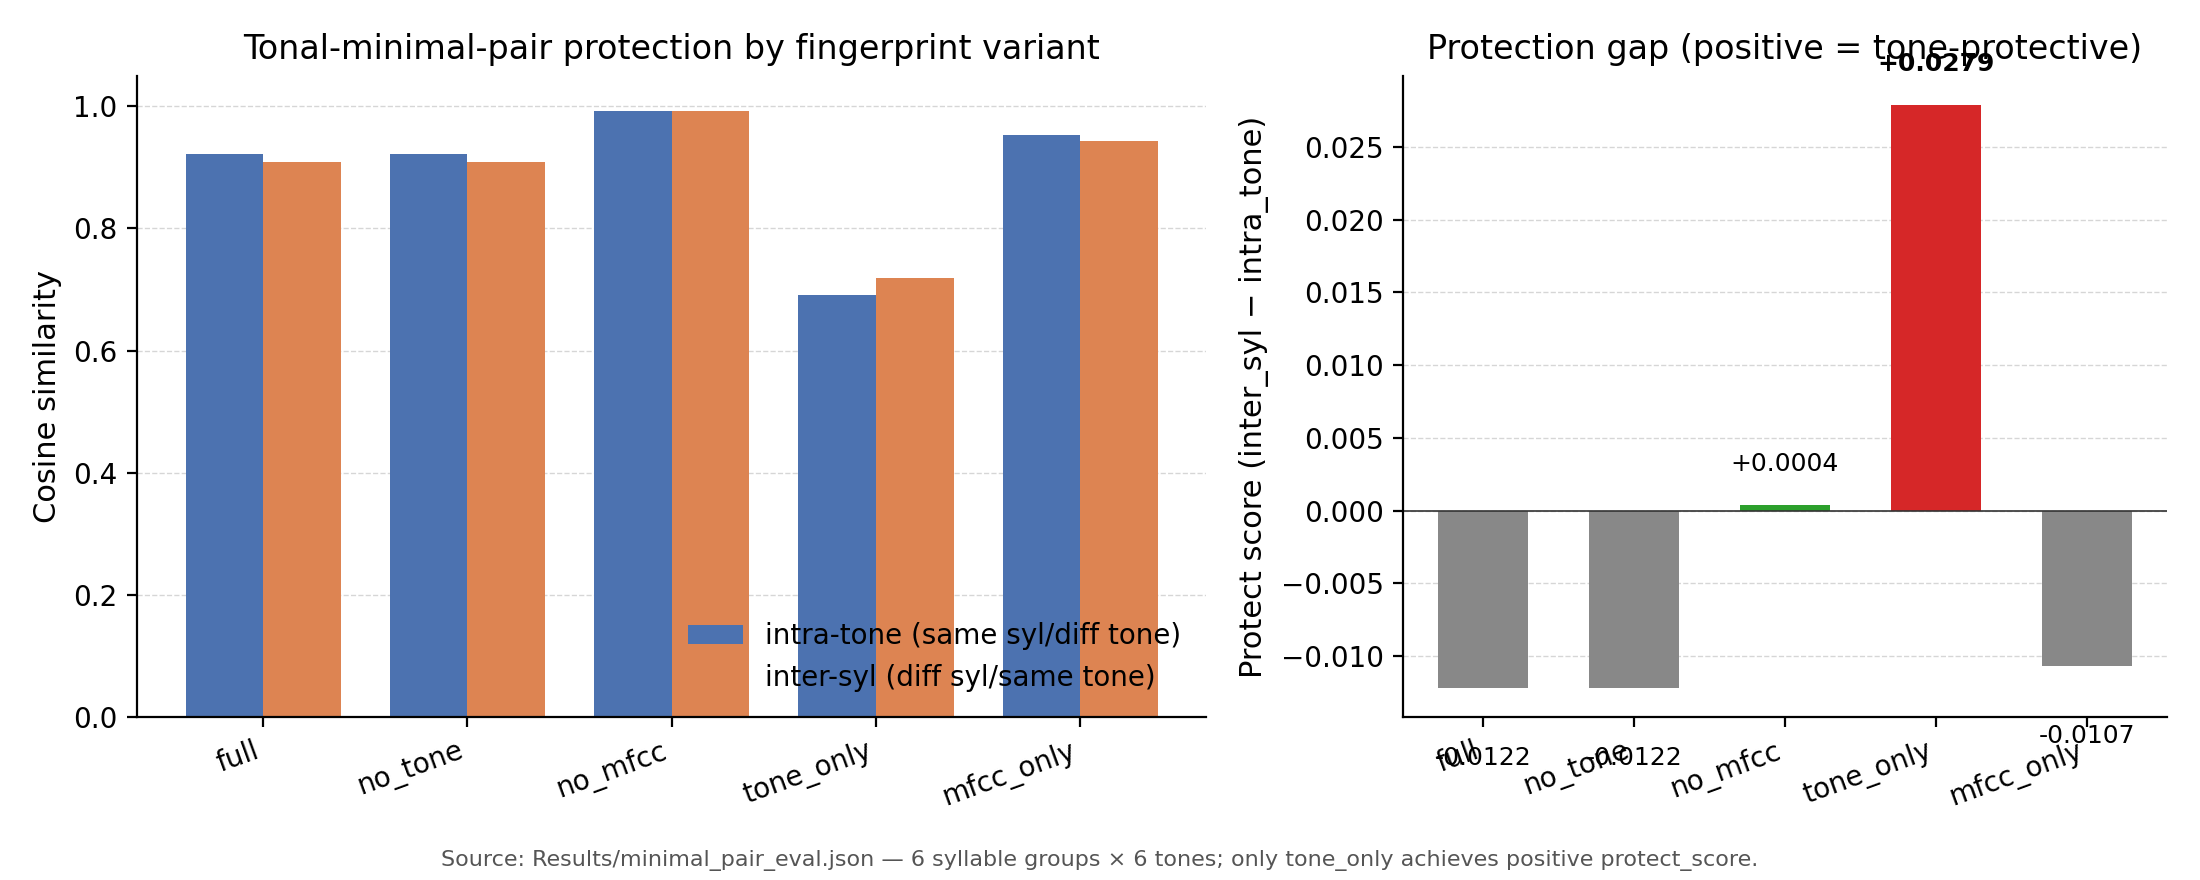
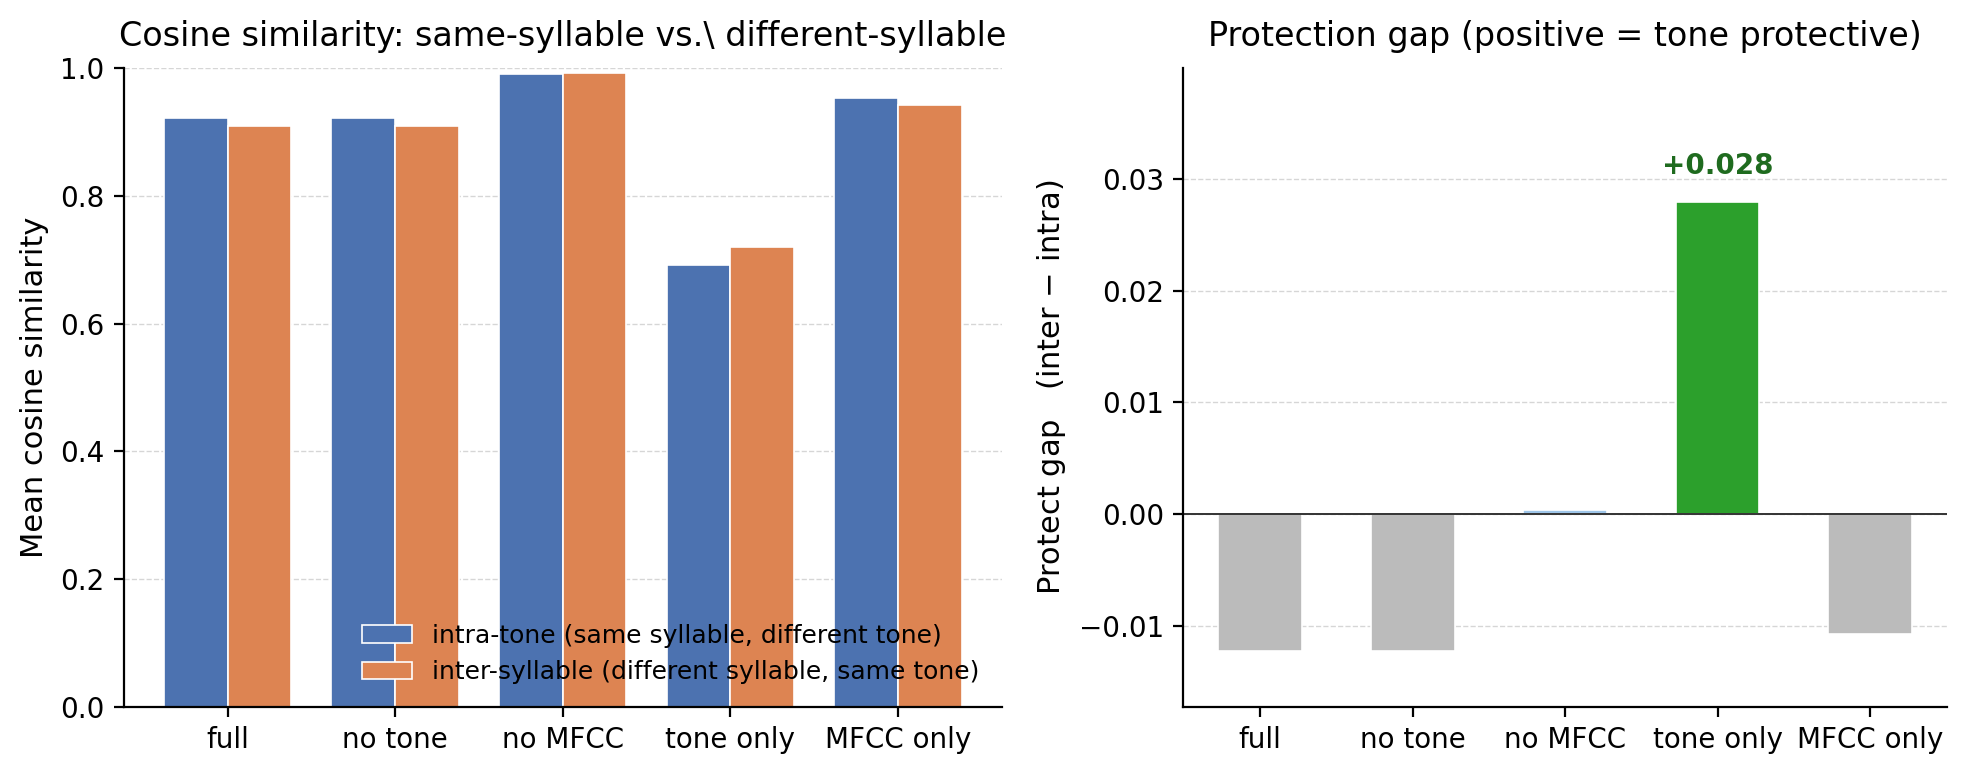
papers: polish Figure 3 (two-stream TikZ) and Figure 4 (minimal-pair PNG)
Figure 3 — TikZ two-stream voting diagram, fixes for label cut-off /
overlap reported in user screenshot:
  * Restructured the tikzpicture with named styles (stream, thresh, qbox,
    gate, hitb, flow) inside the picture for clearer authoring.
  * Increased node distance 6/9 mm → 8/14 mm so the AND→HIT arrow has
    breathing room.
  * Removed the "both agree" midway label that got cut off near HIT; the
    "same e" note is repositioned below the AND gate with adequate gap
    and a clearer phrasing ("both pick the same entry e").
  * Stream boxes split into two lines (name + dimension only); the long
    argmax expression that crowded the box is now in the caption.
  * Used `|-` orthogonal arrows from query → streams for a cleaner fan-out.
  * Box fills slightly desaturated (yellow!15, teal!12) for print
    contrast.

Figure 4 — minimal-pair ablation chart in prototype/make_paper_figures.py:
  * Dropped the bottom "Source: Results/..." footnote (it cluttered the
    figure and is already implicit from the caption + bibtex).
  * Pretty-printed x-tick labels: full / no tone / no MFCC / tone only /
    MFCC only (was full / no_tone / no_mfcc / tone_only / mfcc_only).
  * x-tick rotation 20° → 0° (with the shorter labels they fit
    horizontally without overlap).
  * Right subplot: annotate ONLY the tone_only winner (+0.028) in bold
    green; the small +/-0.0004 / -0.012 annotations that overlapped the
    other tiny bars are removed.
[…]

diff --git a/papers/manuscript/main.tex b/papers/manuscript/main.tex
@@ -373,34 +373,47 @@ This rule survives tonal-minimal-pair stress where naive single-vector designs f
 
 \begin{figure*}[!htbp]
   \centering
-  \begin{tikzpicture}[font=\small, node distance=6mm and 9mm]
-    % Query node (left, vertically centered)
-    \node[io] (q) {Query audio $q$};
-    % Stream A (top branch)
-    \node[box, fill=yellow!15, draw=yellow!50!black, right=18mm of q, yshift=10mm]
-      (sa) {Stream A: tone\\$f_A \in \mathbb{R}^{6}$\\$\arg\max_e \cos(f_A(q), f_A(e))$};
-    % Stream B (bottom branch)
-    \node[box, fill=teal!15, draw=teal!50!black, right=18mm of q, yshift=-10mm]
-      (sb) {Stream B: segmental\\$f_B \in \mathbb{R}^{260}$\\$\arg\max_e \cos(f_B(q), f_B(e))$};
+  \begin{tikzpicture}[
+    font=\small,
+    node distance=8mm and 14mm,
+    stream/.style={draw, rounded corners=2pt, minimum height=14mm, minimum width=42mm, align=center, font=\small},
+    thresh/.style={draw, rounded corners=2pt, minimum height=8mm, minimum width=14mm, align=center, font=\small},
+    qbox/.style={draw, rounded corners=2pt, minimum height=10mm, minimum width=24mm, align=center, font=\small, fill=gray!12},
+    gate/.style={draw, rounded corners=2pt, minimum height=10mm, minimum width=14mm, align=center, font=\bfseries, fill=red!15, draw=red!60!black},
+    hitb/.style={draw, rounded corners=2pt, minimum height=10mm, minimum width=14mm, align=center, font=\bfseries, fill=green!18, draw=green!55!black},
+    flow/.style={-{Latex[length=2.2mm]}, semithick},
+  ]
+    % Query node on left
+    \node[qbox] (q) {Query audio\\$q$};
+
+    % Stream A (top)
+    \node[stream, fill=yellow!15, draw=yellow!55!black, above right=4mm and 14mm of q]
+      (sa) {Stream A (tone)\\$f_A\!\in\!\mathbb{R}^{6}$};
+    % Stream B (bottom)
+    \node[stream, fill=teal!12, draw=teal!55!black, below right=4mm and 14mm of q]
+      (sb) {Stream B (segmental)\\$f_B\!\in\!\mathbb{R}^{260}$};
+
     % Thresholds
-    \node[box, fill=yellow!8, draw=yellow!50!black, right=10mm of sa] (ta) {$\tau_A=0.85$};
-    \node[box, fill=teal!8, draw=teal!50!black, right=10mm of sb] (tb) {$\tau_B=0.93$};
-    % AND gate
-    \node[gate, right=14mm of q, xshift=58mm] (and) {AND};
-    % HIT
-    \node[hit, right=10mm of and] (hit) {HIT};
-    % arrows
-    \draw[arrow] (q.east) -- (sa.west);
-    \draw[arrow] (q.east) -- (sb.west);
-    \draw[arrow] (sa) -- (ta);
-    \draw[arrow] (sb) -- (tb);
-    \draw[arrow] (ta.east) -- (and.north west);
-    \draw[arrow] (tb.east) -- (and.south west);
-    \draw[arrow] (and) -- (hit) node[midway, above, font=\scriptsize] {both agree};
-    % "same entry" note
-    \node[font=\scriptsize\itshape, below=0.5mm of and] {same $e$};
+    \node[thresh, fill=yellow!8, draw=yellow!55!black, right=of sa] (ta) {$\tau_A\!=\!0.85$};
+    \node[thresh, fill=teal!8, draw=teal!55!black, right=of sb] (tb) {$\tau_B\!=\!0.93$};
+
+    % AND gate vertically centered between the two threshold boxes
+    \node[gate, right=14mm of q, anchor=west] at ($(ta)!0.5!(tb) + (24mm,0)$) (and) {AND};
+    \node[hitb, right=of and] (hit) {HIT};
+
+    % Arrows
+    \draw[flow] (q.east) |- (sa.west);
+    \draw[flow] (q.east) |- (sb.west);
+    \draw[flow] (sa) -- (ta);
+    \draw[flow] (sb) -- (tb);
+    \draw[flow] (ta.east) -- (and.north west);
+    \draw[flow] (tb.east) -- (and.south west);
+    \draw[flow] (and) -- (hit);
+
+    % Annotation under the AND gate
+    \node[font=\scriptsize\itshape, below=2mm of and] {both pick the same entry $e$};
   \end{tikzpicture}
-  \caption{Two-stream voting cache. Independent tone stream ($f_A$, 6-d, $\tau_A=0.85$) and segmental stream ($f_B$, 260-d, $\tau_B=0.93$) each nominate the nearest stored entry. A hit fires only when both streams nominate the \emph{same} entry above their respective thresholds. On the tonal minimal pair \emph{ma}/\emph{m\'a}, stream B may report high similarity yet stream A vetoes the match because the tone contours disagree.}\label{fig:two_stream_arch}
+  \caption{Two-stream voting cache. Independent tone stream ($f_A$, 6-d, $\tau_A=0.85$) and segmental stream ($f_B$, 260-d, $\tau_B=0.93$) each nominate their nearest stored entry. A hit fires only when both streams nominate the \emph{same} entry above their respective thresholds. On the tonal minimal pair \emph{ma}/\emph{m\'a}, stream B may report high similarity yet stream A vetoes the match because the tone contours disagree.}\label{fig:two_stream_arch}
 \end{figure*}
 
 \subsection{Industrial corpus pre-warming}\label{sec:method:prewarm}

diff --git a/prototype/make_paper_figures.py b/prototype/make_paper_figures.py
@@ -183,47 +183,69 @@ def fig4_minimal_pair_ablation():
     inter_syl = [r["inter_syl_cos_mean"] for r in rows]
     protect = [r["protect_score"] for r in rows]
 
-    fig, (ax1, ax2) = plt.subplots(1, 2, figsize=(11.0, 4.4),
-                                    gridspec_kw={"width_ratios": [1.4, 1.0]})
+    # Pretty-print labels (underscore -> hyphen, replace 'mfcc' casing)
+    label_map = {
+        "full": "full",
+        "no_tone": "no tone",
+        "no_mfcc": "no MFCC",
+        "tone_only": "tone only",
+        "mfcc_only": "MFCC only",
+    }
+    pretty = [label_map.get(n, n.replace("_", " ")) for n in names]
+
+    fig, (ax1, ax2) = plt.subplots(
+        1, 2, figsize=(10.0, 4.0),
+        gridspec_kw={"width_ratios": [1.15, 1.0]},
+    )
     x = list(range(len(names)))
     width = 0.38
+
+    # Subplot 1: paired bars intra vs inter
     ax1.bar([xi - width/2 for xi in x], intra_tone, width,
-            label="intra-tone (same syl/diff tone)", color=PALETTE["neutral"])
+            label="intra-tone (same syllable, different tone)",
+            color="#4c72b0", edgecolor="white", linewidth=0.6)
     ax1.bar([xi + width/2 for xi in x], inter_syl, width,
-            label="inter-syl (diff syl/same tone)", color=PALETTE["alt"])
+            label="inter-syllable (different syllable, same tone)",
+            color="#dd8452", edgecolor="white", linewidth=0.6)
     ax1.set_xticks(x)
-    ax1.set_xticklabels(names, rotation=20, ha="right")
-    ax1.set_ylabel("Cosine similarity")
-    ax1.set_title("Tonal-minimal-pair protection by fingerprint variant")
-    ax1.legend(loc="lower right", frameon=False)
-    ax1.set_ylim(0, 1.05)
+    ax1.set_xticklabels(pretty, rotation=0)
+    ax1.set_ylabel("Mean cosine similarity")
+    ax1.set_title("Cosine similarity: same-syllable vs.\\ different-syllable",
+                  pad=8)
+    ax1.set_ylim(0, 1.0)
+    ax1.legend(loc="lower right", frameon=False, fontsize=9)
     _ygrid(ax1)
 
+    # Subplot 2: protection gap (inter - intra), positive = good
     colors = []
     for n, p in zip(names, protect):
         if n == "tone_only":
-            colors.append(PALETTE["highlight"])
+            colors.append("#2ca02c")  # green = the winner
         elif p > 0:
-            colors.append(PALETTE["filtered"])
+            colors.append("#9ec5e8")  # pale blue = borderline positive
         else:
-            colors.append(PALETTE["fp32"])
-    ax2.bar(x, protect, color=colors, width=0.6)
-    ax2.axhline(0, color="#333333", linewidth=0.6)
+            colors.append("#bbbbbb")  # gray = fails
+    ax2.bar(x, protect, color=colors, width=0.55,
+            edgecolor="white", linewidth=0.6)
+    ax2.axhline(0, color="#333333", linewidth=0.7)
+    # Annotate ONLY the bar that matters (tone_only). Keep others uncluttered.
     for xi, p, n in zip(x, protect, names):
-        ax2.text(xi, p + (0.002 if p >= 0 else -0.004),
-                 f"{p:+.4f}", ha="center",
-                 va="bottom" if p >= 0 else "top", fontsize=9,
-                 fontweight="bold" if n == "tone_only" else "normal")
+        if n == "tone_only":
+            ax2.text(xi, p + 0.002, f"+{p:.3f}", ha="center", va="bottom",
+                     fontsize=10, fontweight="bold", color="#1f6b1f")
     ax2.set_xticks(x)
-    ax2.set_xticklabels(names, rotation=20, ha="right")
-    ax2.set_ylabel("Protect score (inter_syl − intra_tone)")
-    ax2.set_title("Protection gap (positive = tone-protective)")
+    ax2.set_xticklabels(pretty, rotation=0)
+    ax2.set_ylabel("Protect gap   (inter $-$ intra)")
+    ax2.set_title("Protection gap (positive = tone protective)", pad=8)
+    # Tighten y-range so the green bar reads as a clear winner
+    pmin = min(protect) - 0.005
+    pmax = max(protect) + 0.012
+    ax2.set_ylim(pmin, pmax)
     _ygrid(ax2)
 
-    _footnote(fig, "Source: Results/minimal_pair_eval.json — 6 syllable groups × 6 tones; only tone_only achieves positive protect_score.")
-    fig.tight_layout(rect=(0, 0.04, 1, 1))
+    fig.tight_layout()
     out = OUT / "fig4_minimal_pair_ablation.png"
-    fig.savefig(out)
+    fig.savefig(out, bbox_inches="tight")
     plt.close(fig)
     return out
 
